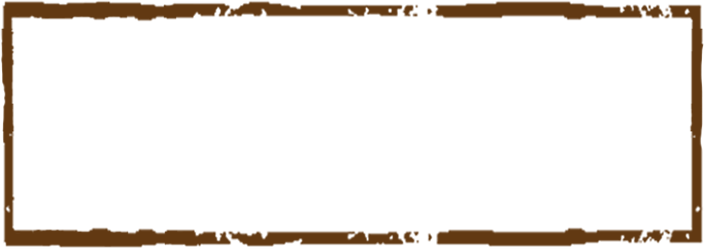
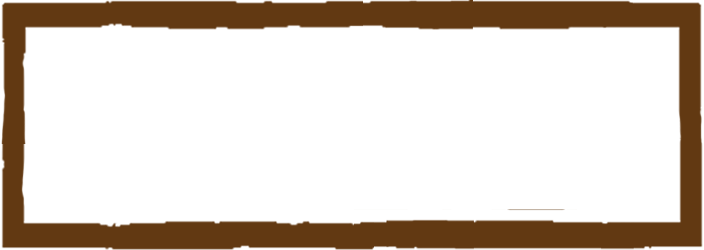
Tweaks

Changed region(s): [[0.0, 0.0, 1.0, 1.0], [0.0, 0.0, 0.0938, 0.028], [0.7188, 0.812, 0.7812, 0.84]]

diff --git a/5e Darker Dungeons.css b/5e Darker Dungeons.css
@@ -513,19 +513,20 @@
   padding: 10px;
   position: relative;
   z-index: 0; }
-  .charsheet .sheet-darkerdungeons .sheet-container-well::before {
-    border-image: url("https://raw.githubusercontent.com/Roll20/roll20-character-sheets/master/5e%20Darker%20Dungeons/img/sheet-well-border.png") 96 314 96 314 fill stretch;
-    border-style: solid;
-    border-width: 32px 101px;
-    box-sizing: border-box;
-    content: '';
-    display: block;
-    height: 100%;
-    left: 0;
-    position: absolute;
-    top: 0;
-    width: 100%;
-    z-index: -1; }
+    .charsheet .sheet-darkerdungeons .sheet-container-well::before {
+        border-image: url("https://github.com/MChapeland/ParchmentCS/blob/df8330f0b7b7851885bc8d8e7d2446fb6bbb259a/img/sheet-well-border.png?raw=true") 96 314 96 314 fill stretch;
+        border-style: solid;
+        border-width: 32px 101px;
+        box-sizing: border-box;
+        content: '';
+        display: block;
+        height: 100%;
+        left: 0;
+        position: absolute;
+        top: 0;
+        width: 100%;
+        z-index: -1;
+    }
 .charsheet .sheet-darkerdungeons fieldset {
   position: relative; }
 .charsheet .sheet-darkerdungeons .repcontainer {
